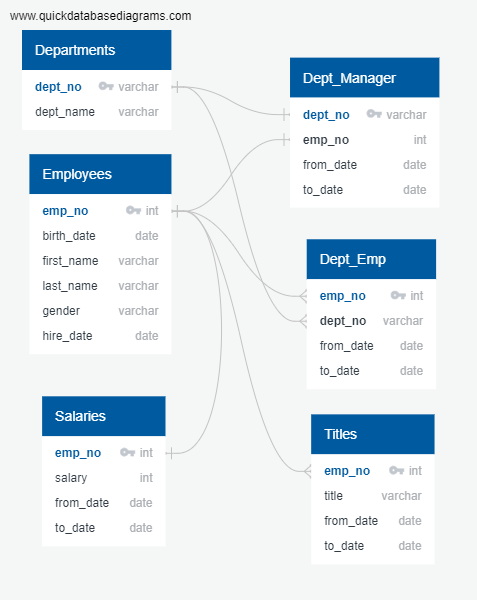
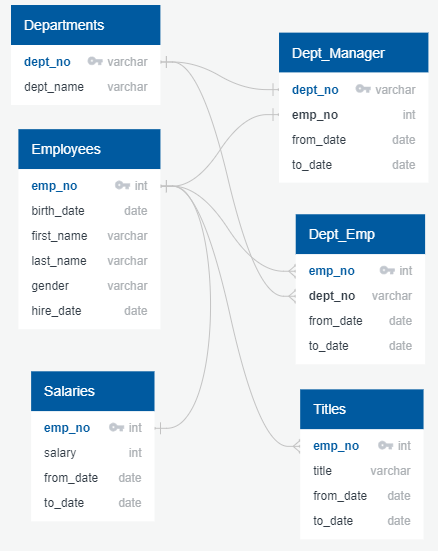
Final README.md for Challenge.

diff --git a/README.md b/README.md
@@ -1,2 +1,32 @@
-# Pewlett-Hackard-Analysis
-Creating an Employee Database with SQL
+<h1><center>Pewlett Hackard Employee Database | Technical Analysis</center></h1>
+<h2>Mapping Out the Database</h2>
+<h3>⋮ The Entity Relationship Diagram ⋮</h3>
+
+![The Entity Relationship Diagram](EmployeeDB.png)
+> Each SQL table in the ERD holds key information from the datafiles Pewlett Hackard provided at the beginning of the project. The design of the diagram, including its *flowchart characteristics*, are used to help understand and visualize the relationships between the SQL tables.
+
+<h2>Project Summary</h2>
+<h3>⋮ Objective ⋮</h3>
+
+The objective is to answer, identify, and provide visualizations for the following:
+
+1. How many roles will need to be filled as the "silver tsunami"[^1] begins to make an impact?
+
+2. Identify retirement-ready employees who qualify to mentor the next generation of Pewlett Hackard employees.
+
+[^1]: The "silver tsunami" referrs to a wave of employees that retire from the company within a short period of time.
+
+<h3>⋮ Results ⋮</h3>
+
+To get the Number of Retiring Employees by Title, I created three new tables, one showing the number of *titles* retiring, one showing number of employees with each title, and one showing a list of current employees born between Jan. 1, 1952 and Dec. 31, 1955. Because some employees had switched titles over the years, duplicates were present in the table. Since Postgres doesn't have a simple function that can identify which rows are duplicated, I used partitioning to remove duplicates from the dataset. This was a challenge, but it allowed me to use my *mad search engine skills* to find more detail on how to resolve the problem and carry out the partitioning process.
+
+![Number of Retiring Employees by Title](Challenge/Data/retiring_titles.png)
+> There are 33,118 current employees elegible to retire.
+
+To determine who qualified to to mentor the next generation of Pewlett Hackard employees, I created a new table that only included employees with a date of birth falling between Jan. 1, 1965 and Dec. 31, 1965. The data in the table included Employee number, First and last name, Title, from_date and to_date. Two inner joins were used to filter out the qualified employees.
+
+> There are 2,382 retirment-ready employees who qualify for a [mentorship role.](https://github.com/sierrah154/Pewlett-Hackard-Analysis/blob/master/Challenge/Data/mentorship.csv)
+
+<h3>Further Analysis and Recommendations</h3>
+
+Another piece to the Database the company may want to concider analyzing, is to find out who is actually going to retire, since some people that are eligible may chose to continue working. Another piece that would be helpful for deciding elibility for promotions or leadership roles as new employees are hired, would be to create a table with the number of years each current employee has been with the company, and even more specifically, within a certain role or department.
